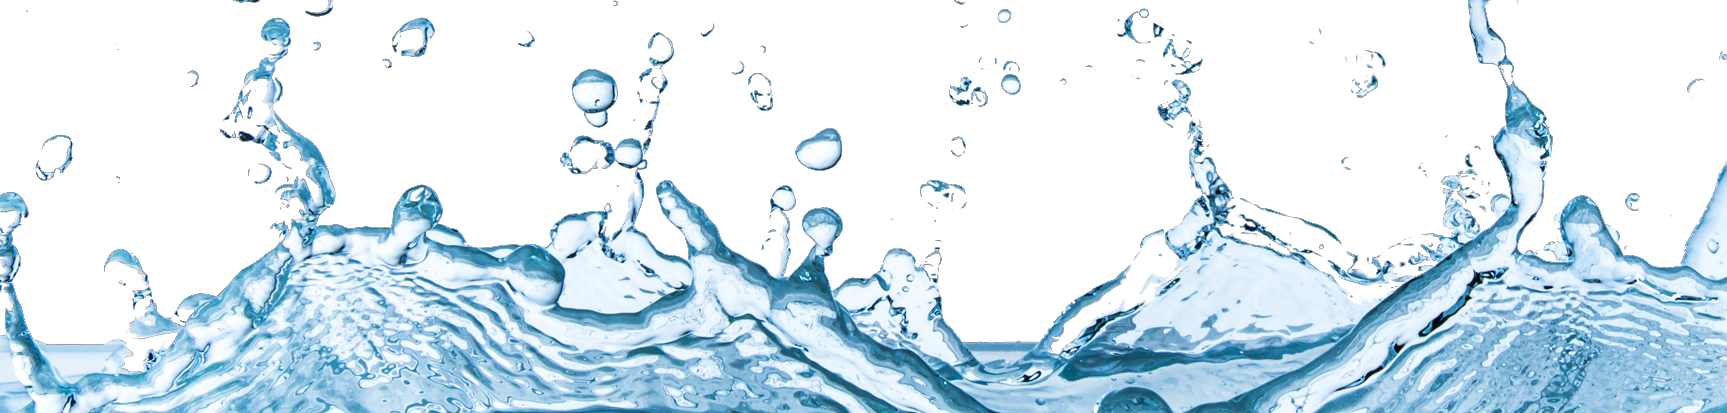
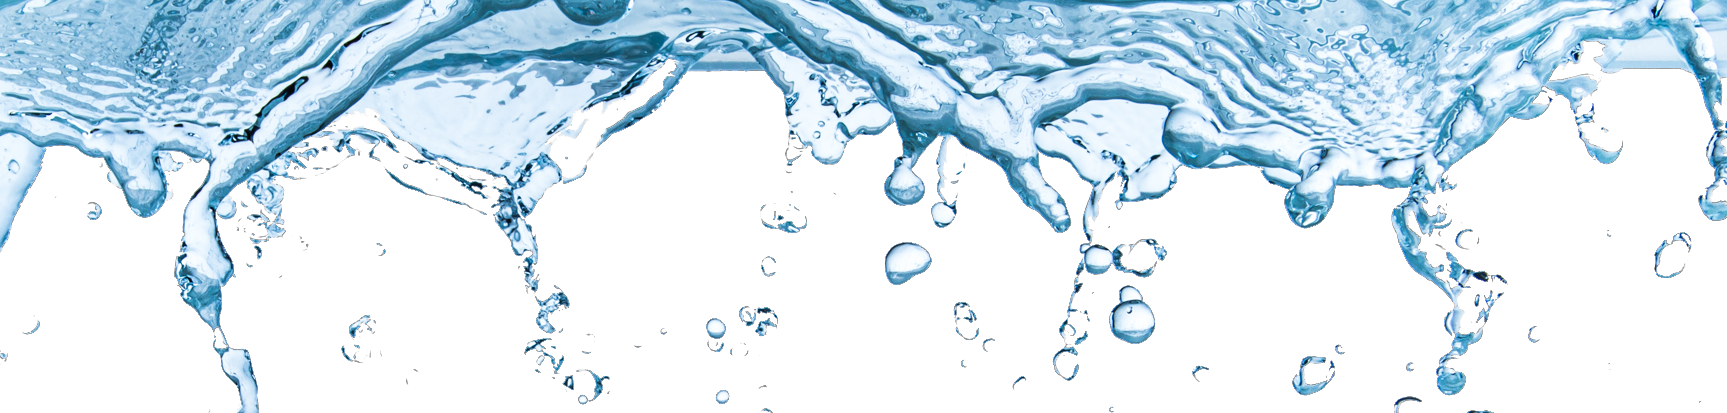
Add seperate hero image in each HTML page

diff --git a/contact.html b/contact.html
@@ -1,118 +1,79 @@
 <!DOCTYPE html>
 <html lang="en">
-  <head>
+
+<head>
     <meta charset="UTF-8" />
     <meta http-equiv="X-UA-Compatible" content="IE=edge" />
     <meta name="viewport" content="width=device-width, initial-scale=1.0" />
     <!-- Meta tags for search engines -->
-    <meta
-      name="description"
-      content="ho3 Mineral Water. Product that helps you to be healthy..."
-    />
-    <meta
-      name="keywords"
-      content="mienral water, water, drink, healthy product"
-    />
+    <meta name="description" content="ho3 Mineral Water. Product that helps you to be healthy..." />
+    <meta name="keywords" content="mienral water, water, drink, healthy product" />
     <!-- Title -->
     <title>H&#8322;O Mineral Water</title>
     <!-- Favicon -->
-    <link
-      rel="apple-touch-icon"
-      sizes="180x180"
-      href="/assets/favicon/apple-touch-icon.png"
-    />
-    <link
-      rel="icon"
-      type="image/png"
-      sizes="32x32"
-      href="/assets/favicon/favicon-32x32.png"
-    />
-    <link
-      rel="icon"
-      type="image/png"
-      sizes="16x16"
-      href="/assets/favicon/favicon-16x16.png"
-    />
+    <link rel="apple-touch-icon" sizes="180x180" href="/assets/favicon/apple-touch-icon.png" />
+    <link rel="icon" type="image/png" sizes="32x32" href="/assets/favicon/favicon-32x32.png" />
+    <link rel="icon" type="image/png" sizes="16x16" href="/assets/favicon/favicon-16x16.png" />
     <link rel="manifest" href="/site.webmanifest" />
     <!-- Stylesheet -->
     <link rel="stylesheet" href="/assets/css/style.css" />
-  </head>
+</head>
 
-  <body>
+<body>
     <!-- Header -->
     <header>
-      <div class="logo-container">
-        <a href="index.html" class="nav-list">
-          <img src="/assets/images/white-logo.png" alt="primary logo" />
-        </a>
-      </div>
-      <input type="checkbox" id="toggle-icon" class="toggle-icon" />
-      <label for="toggle-icon" class="label-toggle-icon"
-        ><i class="fa-solid fa-bars hamburger"></i
-      ></label>
-      <nav class="navbar">
-        <ul id="menu" class="menu">
-          <li class="list-menu">
-            <a href="index.html" class="nav-list">Home</a>
-          </li>
-          <li class="list-menu">
-            <a href="products.html" class="nav-list">Products</a>
-          </li>
-          <li class="list-menu active">
-            <a href="contact.html" class="nav-list">Contact</a>
-          </li>
-        </ul>
-      </nav>
+        <div class="logo-container">
+            <a href="index.html" class="nav-list">
+                <img src="/assets/images/white-logo.png" alt="primary logo" />
+            </a>
+        </div>
+        <input type="checkbox" id="toggle-icon" class="toggle-icon" />
+        <label for="toggle-icon" class="label-toggle-icon"><i class="fa-solid fa-bars hamburger"></i></label>
+        <nav class="navbar">
+            <ul id="menu" class="menu">
+                <li class="list-menu">
+                    <a href="index.html" class="nav-list">Home</a>
+                </li>
+                <li class="list-menu">
+                    <a href="products.html" class="nav-list">Products</a>
+                </li>
+                <li class="list-menu active">
+                    <a href="contact.html" class="nav-list">Contact</a>
+                </li>
+            </ul>
+        </nav>
     </header>
     <!-- Main content -->
     <main>
-      <div class="hero-container">
-        <section id="hero-image"></section>
-      </div>
+        <div class="hero-container">
+            <section id="hero-image-contact"></section>
+        </div>
     </main>
 
     <!-- Footer -->
     <footer>
-      <ul id="social-network">
-        <li>
-          <a
-            href="http://twitter.com/"
-            target="_blank"
-            rel="noopener noreferrer"
-            ><i class="fa-brands fa-twitter"></i
-          ></a>
-        </li>
-        <li>
-          <a
-            href="http://youtube.com/"
-            target="_blank"
-            rel="noopener noreferrer"
-            ><i class="fa-brands fa-youtube"></i
-          ></a>
-        </li>
-        <li>
-          <a
-            href="http://facebook.com/"
-            target="_blank"
-            rel="noopener noreferrer"
-            ><i class="fa-brands fa-facebook"></i
-          ></a>
-        </li>
-        <li>
-          <a
-            href="http://instagram.com/"
-            target="_blank"
-            rel="noopener noreferrer"
-            ><i class="fa-brands fa-instagram"></i
-          ></a>
-        </li>
-      </ul>
+        <ul id="social-network">
+            <li>
+                <a href="http://twitter.com/" target="_blank" rel="noopener noreferrer"><i
+                        class="fa-brands fa-twitter"></i></a>
+            </li>
+            <li>
+                <a href="http://youtube.com/" target="_blank" rel="noopener noreferrer"><i
+                        class="fa-brands fa-youtube"></i></a>
+            </li>
+            <li>
+                <a href="http://facebook.com/" target="_blank" rel="noopener noreferrer"><i
+                        class="fa-brands fa-facebook"></i></a>
+            </li>
+            <li>
+                <a href="http://instagram.com/" target="_blank" rel="noopener noreferrer"><i
+                        class="fa-brands fa-instagram"></i></a>
+            </li>
+        </ul>
     </footer>
 
     <!-- Fontawsome kit -->
-    <script
-      src="https://kit.fontawesome.com/3b20d96fa9.js"
-      crossorigin="anonymous"
-    ></script>
-  </body>
+    <script src="https://kit.fontawesome.com/3b20d96fa9.js" crossorigin="anonymous"></script>
+</body>
+
 </html>

diff --git a/assets/css/style.css b/assets/css/style.css
@@ -151,6 +151,7 @@ header {
     position: absolute;
     /* margin-top: 156px; */
     background-color: #4EA0EC;
+    z-index: 99;
 }
 
 .menu .list-menu {
@@ -223,17 +224,35 @@ main {
     /* margin-top: 103px; */
 }
 
-/* Hero section */
+/* Hero section of Home page*/
 #hero-image {
-    height: 345px;
+    height: 200px;
     width: 100%;
     background: url('../images/pngkey.com-ocean-water-png-9920712.png') no-repeat center/cover;
     /* opacity: 0.7; */
     /* margin-top: 20px; */
 }
 
+/* Hero section of Products page*/
+#hero-image-products {
+    height: 200px;
+    width: 100%;
+    background: url('../images/products-hero.png') no-repeat center/cover;
+    /* opacity: 0.7; */
+    /* margin-top: 20px; */
+}
+
+/* Hero section of Products page*/
+#hero-image-contact {
+    height: 200px;
+    width: 100%;
+    background: url('../images/pngegg\ \(2\).png') no-repeat center/cover;
+    transform: rotate(180deg);
+    /* opacity: 0.7; */
+    /* margin-top: 20px; */
+}
+
 .hero-container {
-    background-color: rgba(233, 233, 233, 0.5);
     display: flex;
     justify-content: center;
 }

diff --git a/products.html b/products.html
@@ -66,9 +66,9 @@
     </header>
     <!-- Main content -->
     <main>
-        <div class="hero-container">
-            <section id="hero-image"></section>
-        </div>
+      <div class="hero-container">
+        <section id="hero-image-products"></section>
+      </div>
     </main>
 
     <!-- Footer -->
